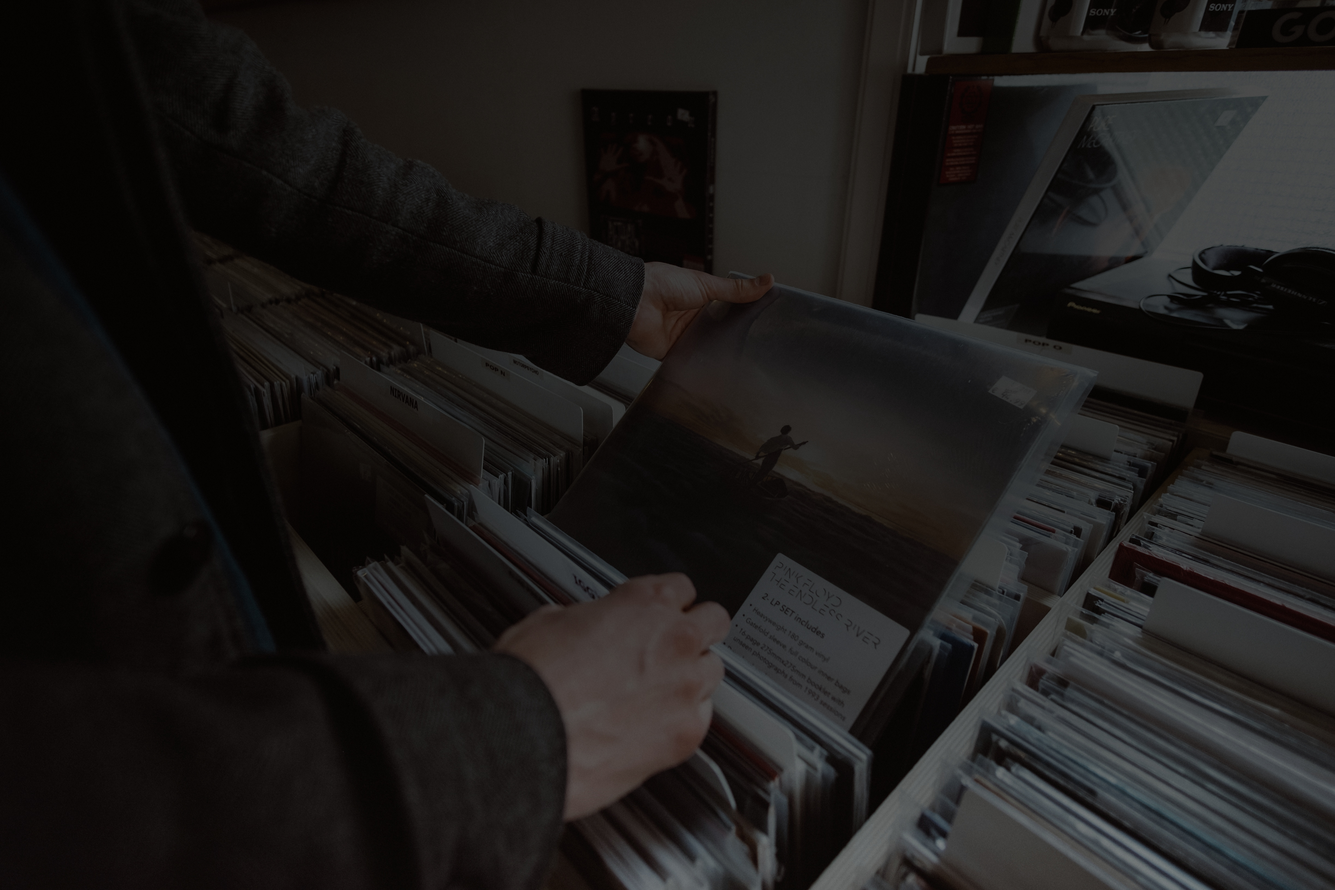
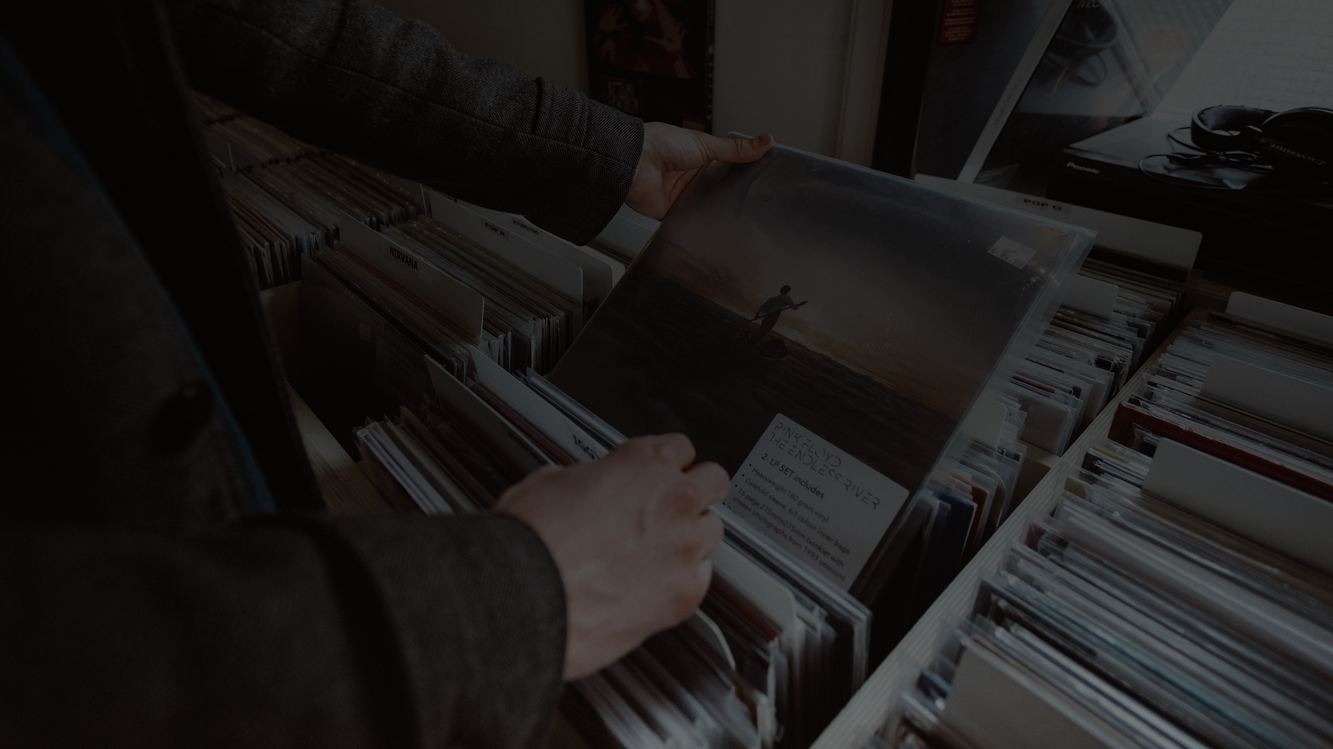
updated

diff --git a/client/css/releases.css b/client/css/releases.css
@@ -4,7 +4,7 @@
 }
 
 .landing-releases{
-  background-image: url("../images/landing.jpg");
+  background-image: url("../images/landing-3.jpg");
   background-size: cover;
   background-repeat: no-repeat;
   color: #FFFFFF;
@@ -101,17 +101,6 @@
 .description{
   padding: 10px 0 20px 0;
 }
-
-/*
-a:hover .changespan{
-  display: none;
-}
- #1DB954;
-a:hover:before{
-  padding-top:4px; 
-  content: "LETS GOOO"
-}
-*/
 
 .card a {
     color: #111517;

diff --git a/client/css/artistes.css b/client/css/artistes.css
@@ -4,7 +4,7 @@
 }
 
 .landing-artistes{
-  background-image: url("../images/landing.jpg");
+  background-image: url("../images/landing-1.jpg");
   background-size: cover;
   background-repeat: no-repeat;
   color: #FFFFFF;

diff --git a/client/css/charts.css b/client/css/charts.css
@@ -4,7 +4,7 @@
 }
 
 .landing-charts{
-  background-image: url("../images/landing.jpg");
+  background-image: url("../images/landing-2.jpg");
   background-size: cover;
   background-repeat: no-repeat;
   color: #FFFFFF;

diff --git a/client/css/style.css b/client/css/style.css
@@ -65,6 +65,7 @@ footer .second-p{
   color: #999999;
 }
 
+
 /*
   ========================================
   MEDIA QUERIES
